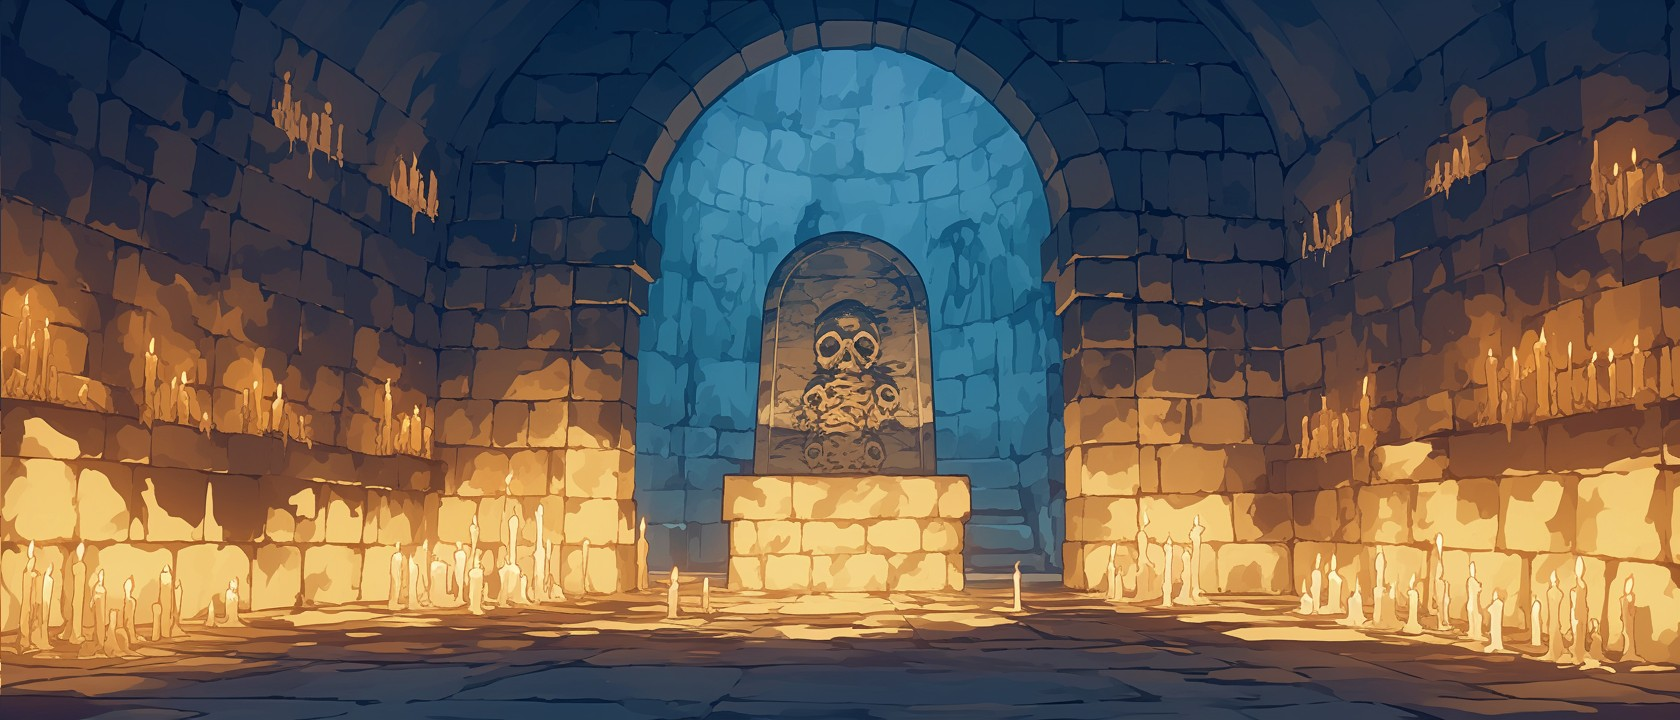
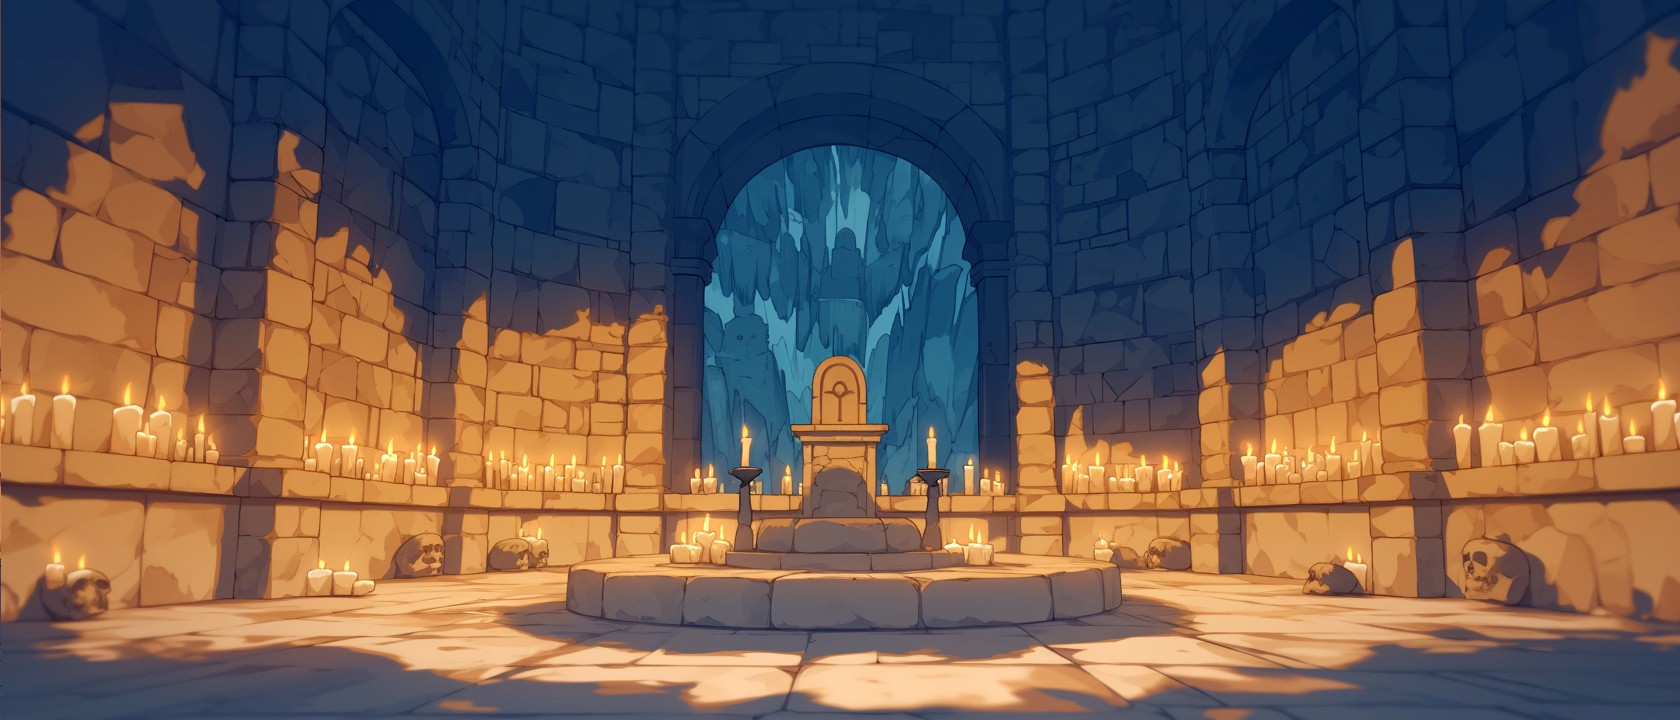
refactor: images

diff --git a/src/util/dungeon-util.js b/src/util/dungeon-util.js
@@ -202,24 +202,24 @@ function getRoomEvent() {
           events.push(GRAVESTONE);
         }
 
-        // if (dungeon.threat < 20) {
-        //   events.push(AMBUSH);
-        // }
+        if (dungeon.threat < 20) {
+          events.push(AMBUSH);
+        }
 
-        // events.push(COFFIN);
-        // events.push(BONEVAULT);
+        events.push(COFFIN);
+        events.push(BONEVAULT);
 
         // // Check if Siggurd is unlocked
-        // if (!siggurd.unlocked) {
-        //   events.push(UNLOCK_HERO.SIGGURD);
-        // }
+        if (!siggurd.unlocked) {
+          events.push(UNLOCK_HERO.SIGGURD);
+        }
 
         // // Check if Liheth is unlocked
-        // if (!liheth.unlocked) {
-        //   events.push(UNLOCK_HERO.LIHETH);
-        // } else {
-        //   events.push(CANDLELIGHT_SHRINE);
-        // }
+        if (!liheth.unlocked) {
+          events.push(UNLOCK_HERO.LIHETH);
+        } else {
+          events.push(CANDLELIGHT_SHRINE);
+        }
       }
 
       // FOLLOWING EVENTS
@@ -250,11 +250,11 @@ function getRoomEvent() {
             items: getTraderItems("Laughing Coffin"),
           });
         } else {
-          events.push(
-            THIEVES_RUIN.FLOOR_SPIKES,
-            THIEVES_RUIN.POISONOUS_MIST,
-            THIEVES_RUIN.POISON_DARTS
-          );
+          // events.push(
+          //   THIEVES_RUIN.FLOOR_SPIKES,
+          //   THIEVES_RUIN.POISONOUS_MIST,
+          //   THIEVES_RUIN.POISON_DARTS
+          // );
         }
       }
       break;
@@ -490,7 +490,7 @@ function getRoomImage(dungeon) {
       case "Gravestone":
         backgroundImage = getImageFromList(
           "src/assets/images/backgrounds/events/gravestone",
-          7
+          5
         );
         break;
 

diff --git a/src/util/event-functions.js b/src/util/event-functions.js
@@ -1,4 +1,4 @@
-import { buildEnemy, createNewRoom } from "./dungeon-util";
+import { buildEnemy } from "./dungeon-util";
 import { changeHealth } from "../store/health-actions";
 
 import store from "../store/index";
@@ -12,7 +12,6 @@ import { dungeonActions } from "../store/dungeon-slice";
 import { startCombat } from "../store/combat-actions";
 import { logActions } from "../store/log-slice";
 import { getRandomLoot } from "./loot";
-import activateItem from "../store/item-actions";
 
 import { combatActions } from "../store/combat-slice";
 import { heroActions } from "../store/hero-slice";
@@ -399,8 +398,13 @@ const eventFunctions = {
   },
   UNLOCK_HERO_SIGGURD: async (dispatch) => {
     const dungeon = store.getState().dungeon;
+    let enemies = [
+      ...dungeon.contents.enemies,
+      buildEnemy(UNDEAD.DECREPIT_SKELETON),
+      buildEnemy(UNDEAD.DECREPIT_SKELETON),
+    ];
     dispatch(heroActions.unlockHero("Siggurd"));
-    startCombat(dispatch, dungeon.contents.enemies);
+    startCombat(dispatch, enemies);
   },
   AMBUSH: async (dispatch, choice) => {
     const dungeon = store.getState().dungeon;

diff --git a/src/store/combat-actions.js b/src/store/combat-actions.js
@@ -47,7 +47,7 @@ export default async function combatLoop(dispatch, additionalEnemies = 0) {
   // NOTE: Passives will be called on each round of combat.
   let order = store.getState().combat.order;
   const dungeon = store.getState().dungeon;
-  console.log("DUNGEON");
+  console.log("DUNGEON", dungeon);
 
   // START OF THE ROUND
   // Adds enemies if needed & returns new array of enemies

diff --git a/src/data/events.js b/src/data/events.js
@@ -180,7 +180,6 @@ export const UNLOCK_HERO = {
       UNDEAD.DECREPIT_SKELETON,
       UNDEAD.DECREPIT_SKELETON,
       UNDEAD.DECREPIT_SKELETON,
-      UNDEAD.DECREPIT_SKELETON,
     ],
     description: [""],
     function: "UNLOCK_HERO_SIGGURD",
